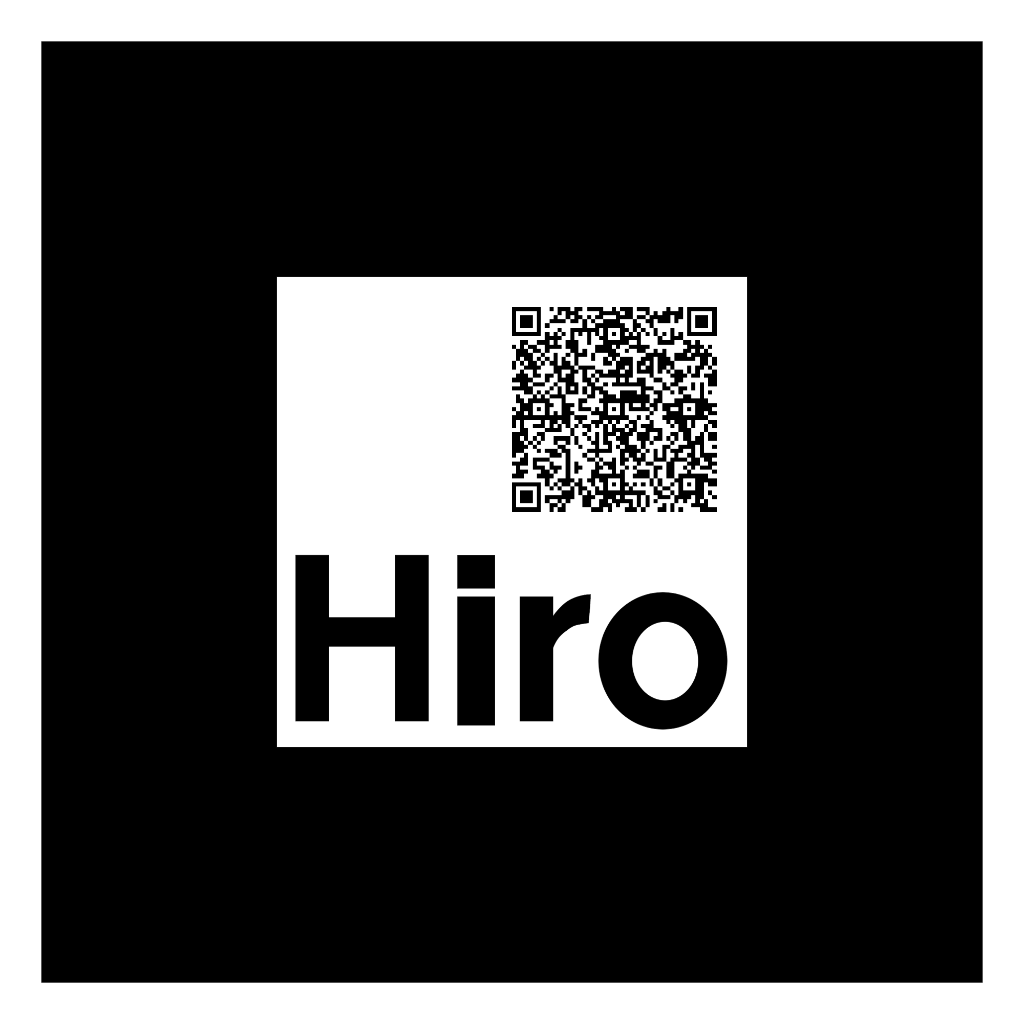
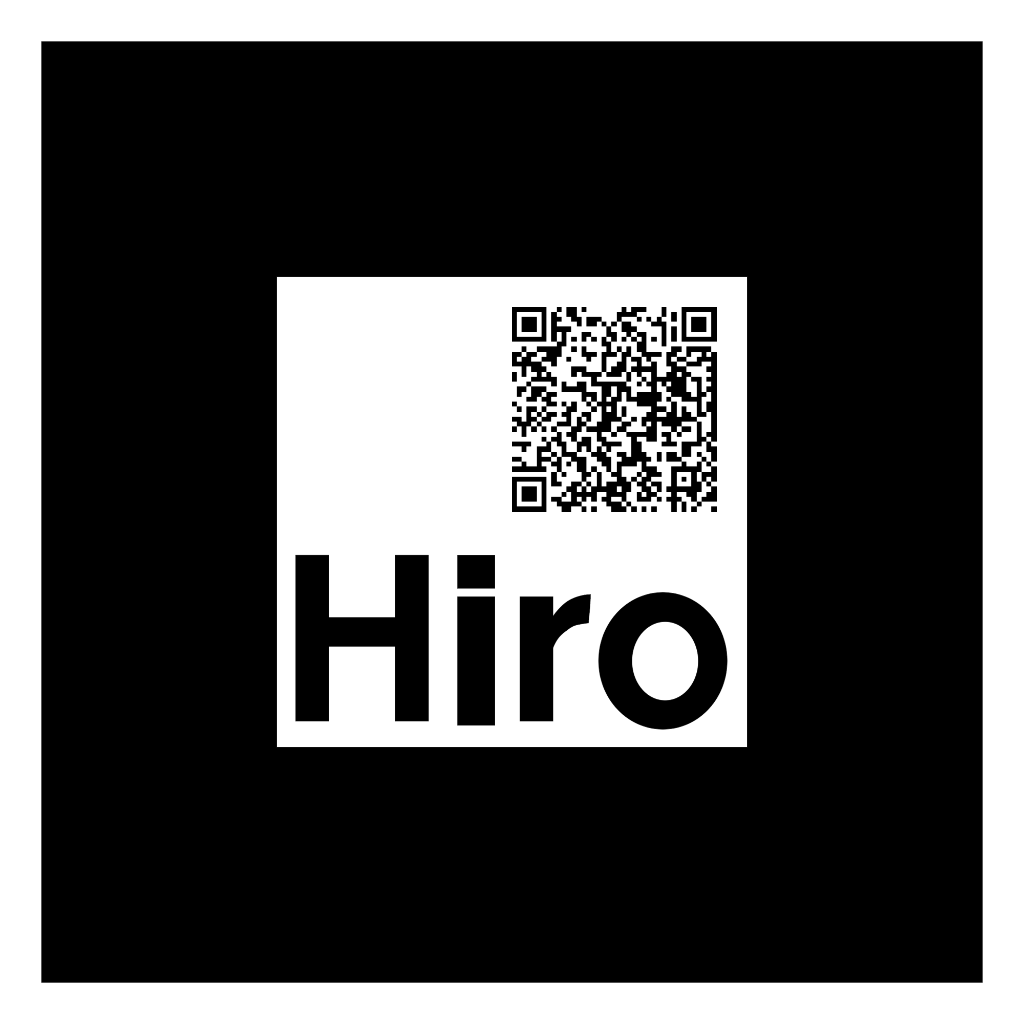
UI refatorada e Marker

Changed region(s): [[0.5, 0.2812, 0.7188, 0.5]]

diff --git a/js/ui.js b/js/ui.js
@@ -3,7 +3,7 @@ const authenticatedNav = document.getElementById('authenticated-nav');
 const accountNav = document.getElementById('account-nav');
 const mainContainer = document.getElementById('main-container');
 
-const Views = { error: 1, home: 2, calendar: 3 };
+const Views = { error: 1, home: 2, calendar: 3, marker: 4 };
 
 //Facilitar criar um novo elemento
 function createElement(type, className, text) {
@@ -25,15 +25,20 @@ function showAuthenticatedNav(account, view) {
   if (account) {
     // Add Calendar link
     var calendarNav = createElement('li', 'nav-item');
-
     var calendarLink = createElement('button',
       `btn btn-link nav-link${view === Views.calendar ? ' active' : '' }`,
       'Calendário');
     calendarLink.setAttribute('onclick', 'getEvents();');
     calendarNav.appendChild(calendarLink);
 
-    var arNav = createElement('li', 'nav-item');
+    var markerNav = createElement('li', 'nav-item');
+    var markerLink = createElement('a',
+      `btn btn-link nav-link${view === Views.marker ? ' active' : '' }`,
+      'QR Code e Marcador');
+    markerLink.setAttribute('onclick', `showMarker();`);
+    markerNav.appendChild(markerLink);
 
+    var arNav = createElement('li', 'nav-item');
     var arpage = createElement('a',
       `btn btn-link nav-link`,
       'Ver em RA');
@@ -42,6 +47,7 @@ function showAuthenticatedNav(account, view) {
 
     authenticatedNav.appendChild(calendarNav);
     authenticatedNav.appendChild(arNav);
+    authenticatedNav.appendChild(markerNav);
   }
 }
 
@@ -92,11 +98,11 @@ function showWelcomeMessage(account) {
   // Create jumbotron
   var jumbotron = createElement('div', 'jumbotron');
 
-  var heading = createElement('h1', null, 'API Microsoft Graph - Calendário');
+  var heading = createElement('h1', null, 'Microsoft Graph AR Calendar');
   jumbotron.appendChild(heading);
 
   var lead = createElement('p', 'lead',
-    'Testes com a funcionalidade de obter eventos através da API oferecida pela Microsoft');
+    'Veja seus eventos do outlook em realidade aumentada!');
   jumbotron.appendChild(lead);
 
   if (account) {
@@ -110,7 +116,7 @@ function showWelcomeMessage(account) {
   } else {
     // Show a sign in button in the jumbotron
     var signInButton = createElement('button', 'btn btn-primary btn-large',
-      'Click aqui para entrar');
+      'Login');
     signInButton.setAttribute('onclick', 'signIn();')
     jumbotron.appendChild(signInButton);
   }
@@ -197,6 +203,15 @@ function showCalendar(events) {
   
     mainContainer.innerHTML = '';
     mainContainer.appendChild(div);
+  }
+
+  function showMarker() {
+    var foto = document.createElement('img')
+    foto.setAttribute('src', '../assets/marker.png')
+    foto.setAttribute('style', 'width: 60%')
+  
+    mainContainer.innerHTML = '';
+    mainContainer.appendChild(foto);
   }
 
 function updatePage(account, view, data) {

diff --git a/index.html b/index.html
@@ -19,7 +19,7 @@
   <body>
     <nav class="navbar navbar-expand-md navbar-dark fixed-top navbg">
       <div class="container">
-        <a href="./" class="navbar-brand">API Microsoft - Calendário</a>
+        <a href="./" class="navbar-brand">AR Calendar</a>
         <button class="navbar-toggler" type="button" data-toggle="collapse" data-target="#navbarCollapse"
           aria-controls="navbarCollapse" aria-expanded="false" aria-label="Toggle navigation">
           <span class="navbar-toggler-icon"></span>
